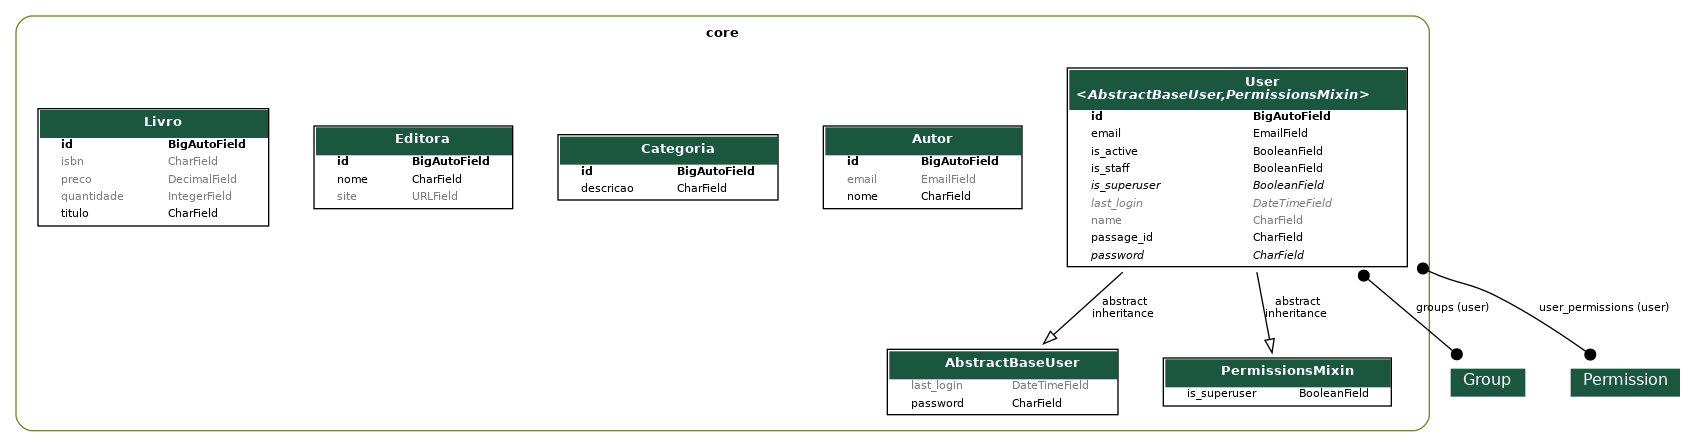
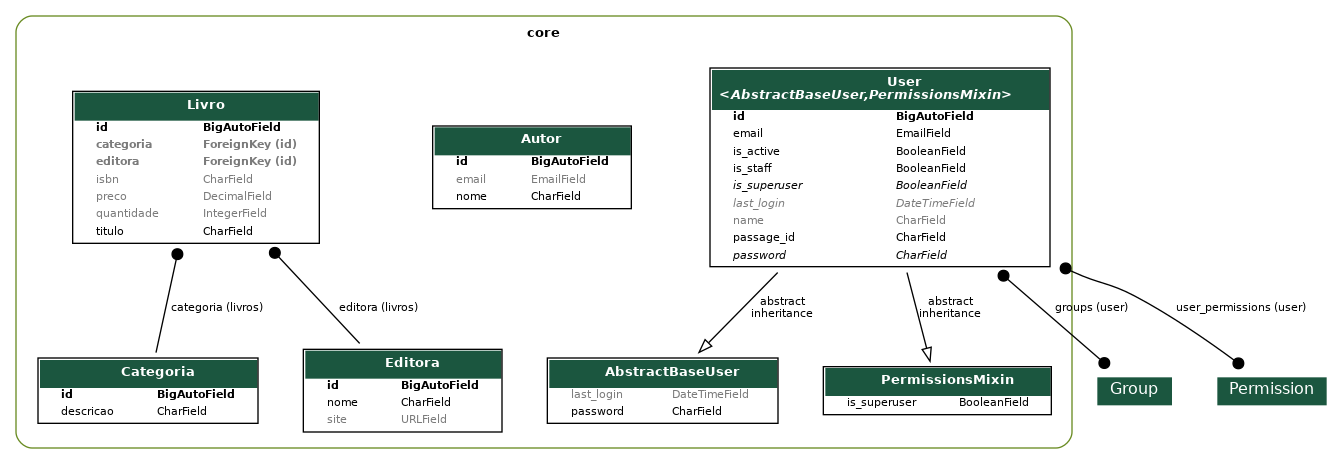
feat: inclusão do relacionamento de Livro com Categoria e Editora

diff --git a/core/migrations/0013_alter_livro_categoria_alter_livro_editora.py b/core/migrations/0013_alter_livro_categoria_alter_livro_editora.py
@@ -1,0 +1,24 @@
+# Generated by Django 5.1.7 on 2025-04-15 11:53
+
+import django.db.models.deletion
+from django.db import migrations, models
+
+
+class Migration(migrations.Migration):
+
+    dependencies = [
+        ('core', '0012_livro_editora'),
+    ]
+
+    operations = [
+        migrations.AlterField(
+            model_name='livro',
+            name='categoria',
+            field=models.ForeignKey(blank=True, null=True, on_delete=django.db.models.deletion.PROTECT, related_name='livros', to='core.categoria'),
+        ),
+        migrations.AlterField(
+            model_name='livro',
+            name='editora',
+            field=models.ForeignKey(blank=True, null=True, on_delete=django.db.models.deletion.PROTECT, related_name='livros', to='core.editora'),
+        ),
+    ]

diff --git a/core/models/livro.py b/core/models/livro.py
@@ -1,10 +1,16 @@
 from django.db import models
 
+from .categoria import Categoria
+from .editora import Editora
+from core.models import editora
+
 class Livro(models.Model):
     titulo = models.CharField(max_length=255)
     isbn = models.CharField(max_length=32, blank=True, null=True)
     quantidade = models.IntegerField(default=0, blank=True, null=True)
     preco = models.DecimalField(max_digits=7, decimal_places=2, default=0, blank=True, null=True)
+    categoria = models.ForeignKey(Categoria, on_delete=models.PROTECT, related_name="livros", null=True, blank=True)
+    editora = models.ForeignKey(Editora, on_delete=models.PROTECT, related_name="livros", null=True, blank=True)
 
     def __str__ (self):
         return f"{self.titulo} ({self.quantidade}) ({self.id})"

diff --git a/core/migrations/0011_livro_categoria.py b/core/migrations/0011_livro_categoria.py
@@ -1,0 +1,19 @@
+# Generated by Django 5.1.7 on 2025-04-15 11:49
+
+import django.db.models.deletion
+from django.db import migrations, models
+
+
+class Migration(migrations.Migration):
+
+    dependencies = [
+        ('core', '0010_livro_alter_autor_options'),
+    ]
+
+    operations = [
+        migrations.AddField(
+            model_name='livro',
+            name='categoria',
+            field=models.ForeignKey(blank=True, null=True, on_delete=django.db.models.deletion.PROTECT, to='core.categoria'),
+        ),
+    ]

diff --git a/core/migrations/0012_livro_editora.py b/core/migrations/0012_livro_editora.py
@@ -1,0 +1,19 @@
+# Generated by Django 5.1.7 on 2025-04-15 11:51
+
+import django.db.models.deletion
+from django.db import migrations, models
+
+
+class Migration(migrations.Migration):
+
+    dependencies = [
+        ('core', '0011_livro_categoria'),
+    ]
+
+    operations = [
+        migrations.AddField(
+            model_name='livro',
+            name='editora',
+            field=models.ForeignKey(blank=True, null=True, on_delete=django.db.models.deletion.PROTECT, to='core.editora'),
+        ),
+    ]
